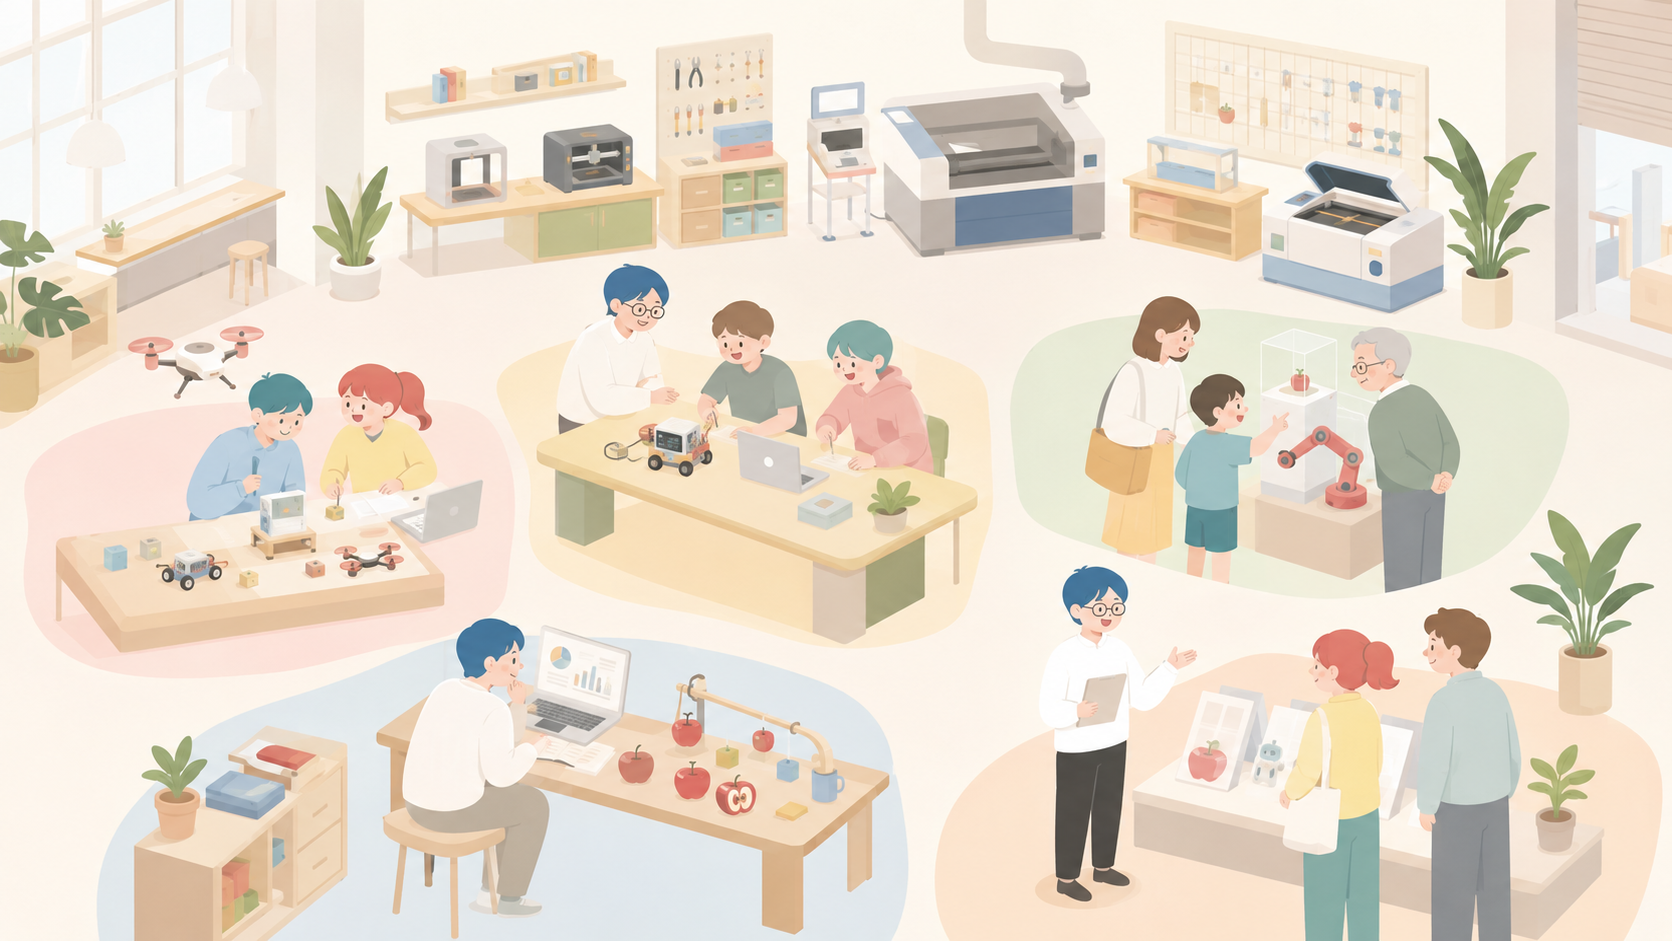
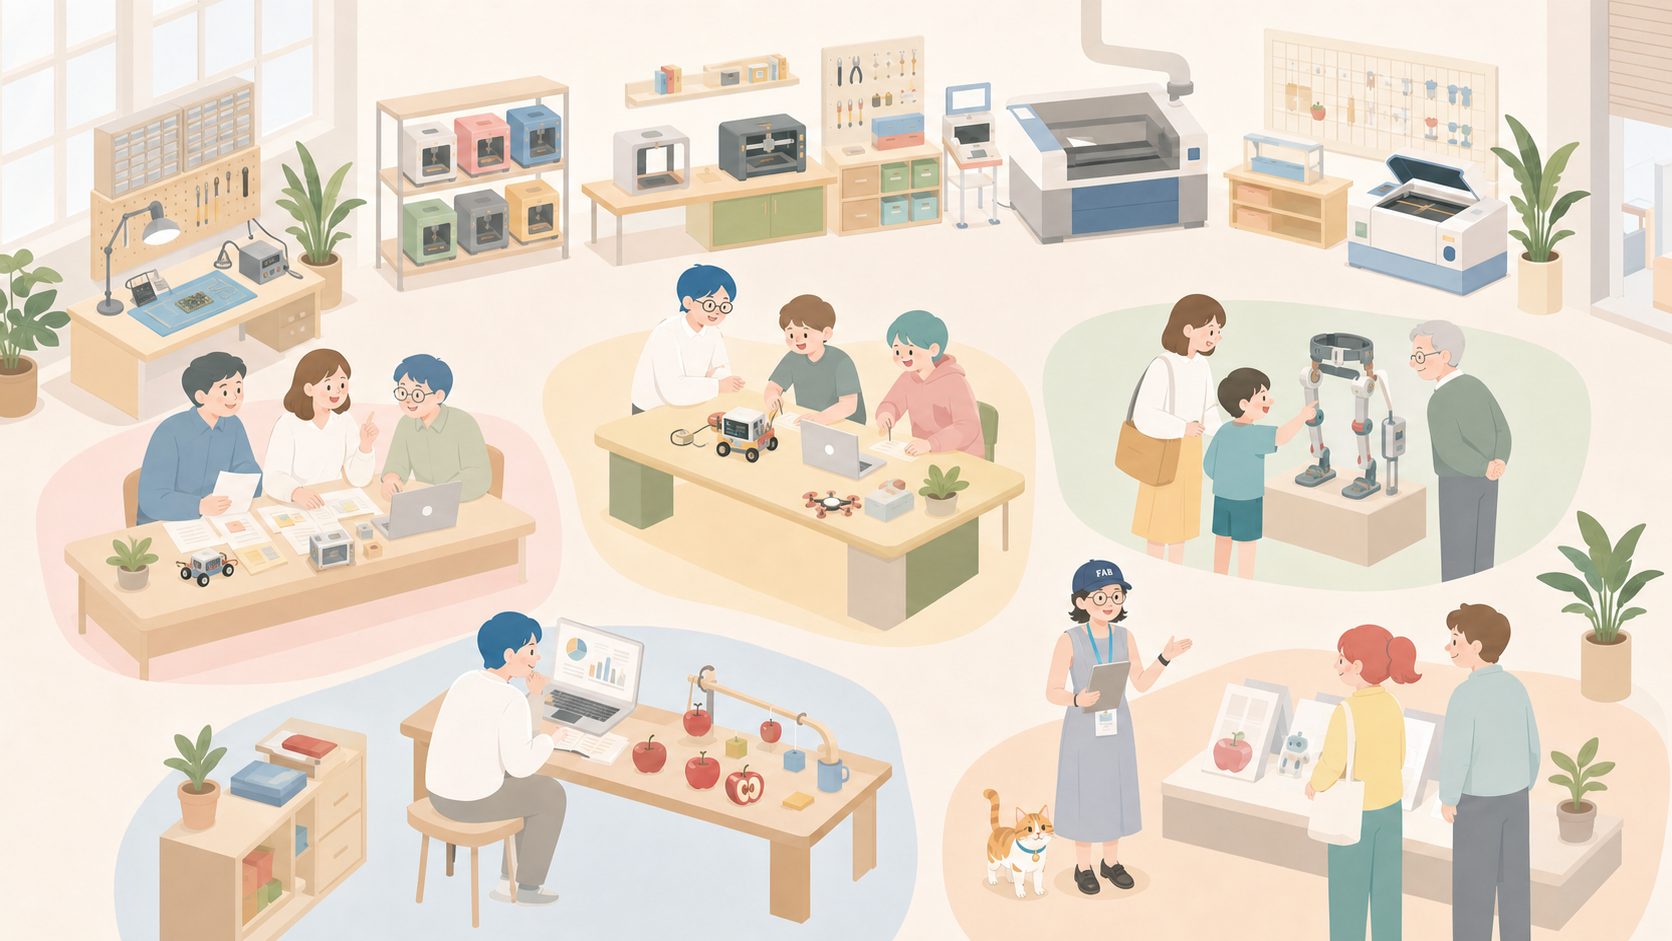
Update homepage map and hotspots

diff --git a/app/globals.css b/app/globals.css
@@ -78,6 +78,15 @@ button { color: inherit; }
 .is-open .chapter-rail { opacity: 0; pointer-events: none; }
 .pan-controls { display: none; }
 
+/* Keep hotspot coordinates attached to the 1672:941 artwork while object-fit: cover crops it. */
+@media (min-aspect-ratio: 1672/941) {
+  .hotspot { left: var(--hotspot-x); top: var(--hotspot-wide-top); }
+}
+
+@media (max-aspect-ratio: 1672/941) {
+  .hotspot { left: var(--hotspot-narrow-left); top: var(--hotspot-y); }
+}
+
 .story-panel { position: fixed; z-index: 50; top: 0; right: 0; width: var(--panel-width); height: 100svh; display: flex; flex-direction: column; background: rgba(250,248,242,.91); border-left: 1px solid rgba(255,255,255,.7); box-shadow: -18px 0 60px rgba(49,59,52,.10); backdrop-filter: blur(24px); transform: translateX(102%); transition: transform .8s cubic-bezier(.72,0,.2,1); }
 .is-open .story-panel { transform: translateX(0); }
 .panel-head { height: 88px; padding: 20px 30px; display: flex; align-items: center; justify-content: space-between; border-bottom: 1px solid rgba(48,61,54,.1); }

diff --git a/app/page.tsx b/app/page.tsx
@@ -68,6 +68,8 @@ export default function Home() {
               style={{
                 "--hotspot-x": `${item.x}%`,
                 "--hotspot-y": `${item.y}%`,
+                "--hotspot-wide-top": `calc(50svh + ${(item.y - 50) / 1.77778}vw)`,
+                "--hotspot-narrow-left": `calc(50vw + ${(item.x - 50) * 1.77778}svh)`,
                 "--hotspot-portrait-left": `calc(${pan * 100}vw + ${(item.x - pan * 100) * 1.77778}svh)`,
               } as React.CSSProperties}
               onMouseEnter={() => setHoveredKey(item.key)}

diff --git a/content/sections/learners.md b/content/sections/learners.md
@@ -4,8 +4,8 @@ index: "01"
 title: 学习者
 label: 面向学习者与家庭
 intro: 从综合科创、城市挑战到长期个人项目，让好奇心逐渐成为作品与方向。
-x: 22
-y: 51
+x: 47
+y: 47
 href: /learners
 slides:
   - eyebrow: 在实践中学习

diff --git a/content/sections/research.md b/content/sections/research.md
@@ -5,7 +5,7 @@ title: Research
 label: Methods, evidence & archives
 intro: Follow the questions, evidence and iterations behind every prototype.
 x: 33
-y: 80
+y: 78
 href: /research
 slides:
   - eyebrow: The prototype is never the whole story

diff --git a/content/sections/public.md b/content/sections/public.md
@@ -4,8 +4,8 @@ index: "03"
 title: Public
 label: For communities & visitors
 intro: Meet technology through exhibitions, workshops and city questions.
-x: 76
-y: 48
+x: 77
+y: 46
 href: /public
 slides:
   - eyebrow: Make for social good

diff --git a/content/sections/about.md b/content/sections/about.md
@@ -4,8 +4,8 @@ index: "05"
 title: About
 label: Meet Litchee Lab
 intro: Discover our team, journey and network of collaborators.
-x: 78
-y: 80
+x: 66
+y: 70
 href: /about
 slides:
   - eyebrow: Shenzhen · since 2014

diff --git a/content/sections/educators.md b/content/sections/educators.md
@@ -4,7 +4,7 @@ index: "02"
 title: Educators
 label: For schools & teachers
 intro: Design meaningful learning experiences through real-world making.
-x: 44
+x: 24
 y: 48
 href: /educators
 slides:
